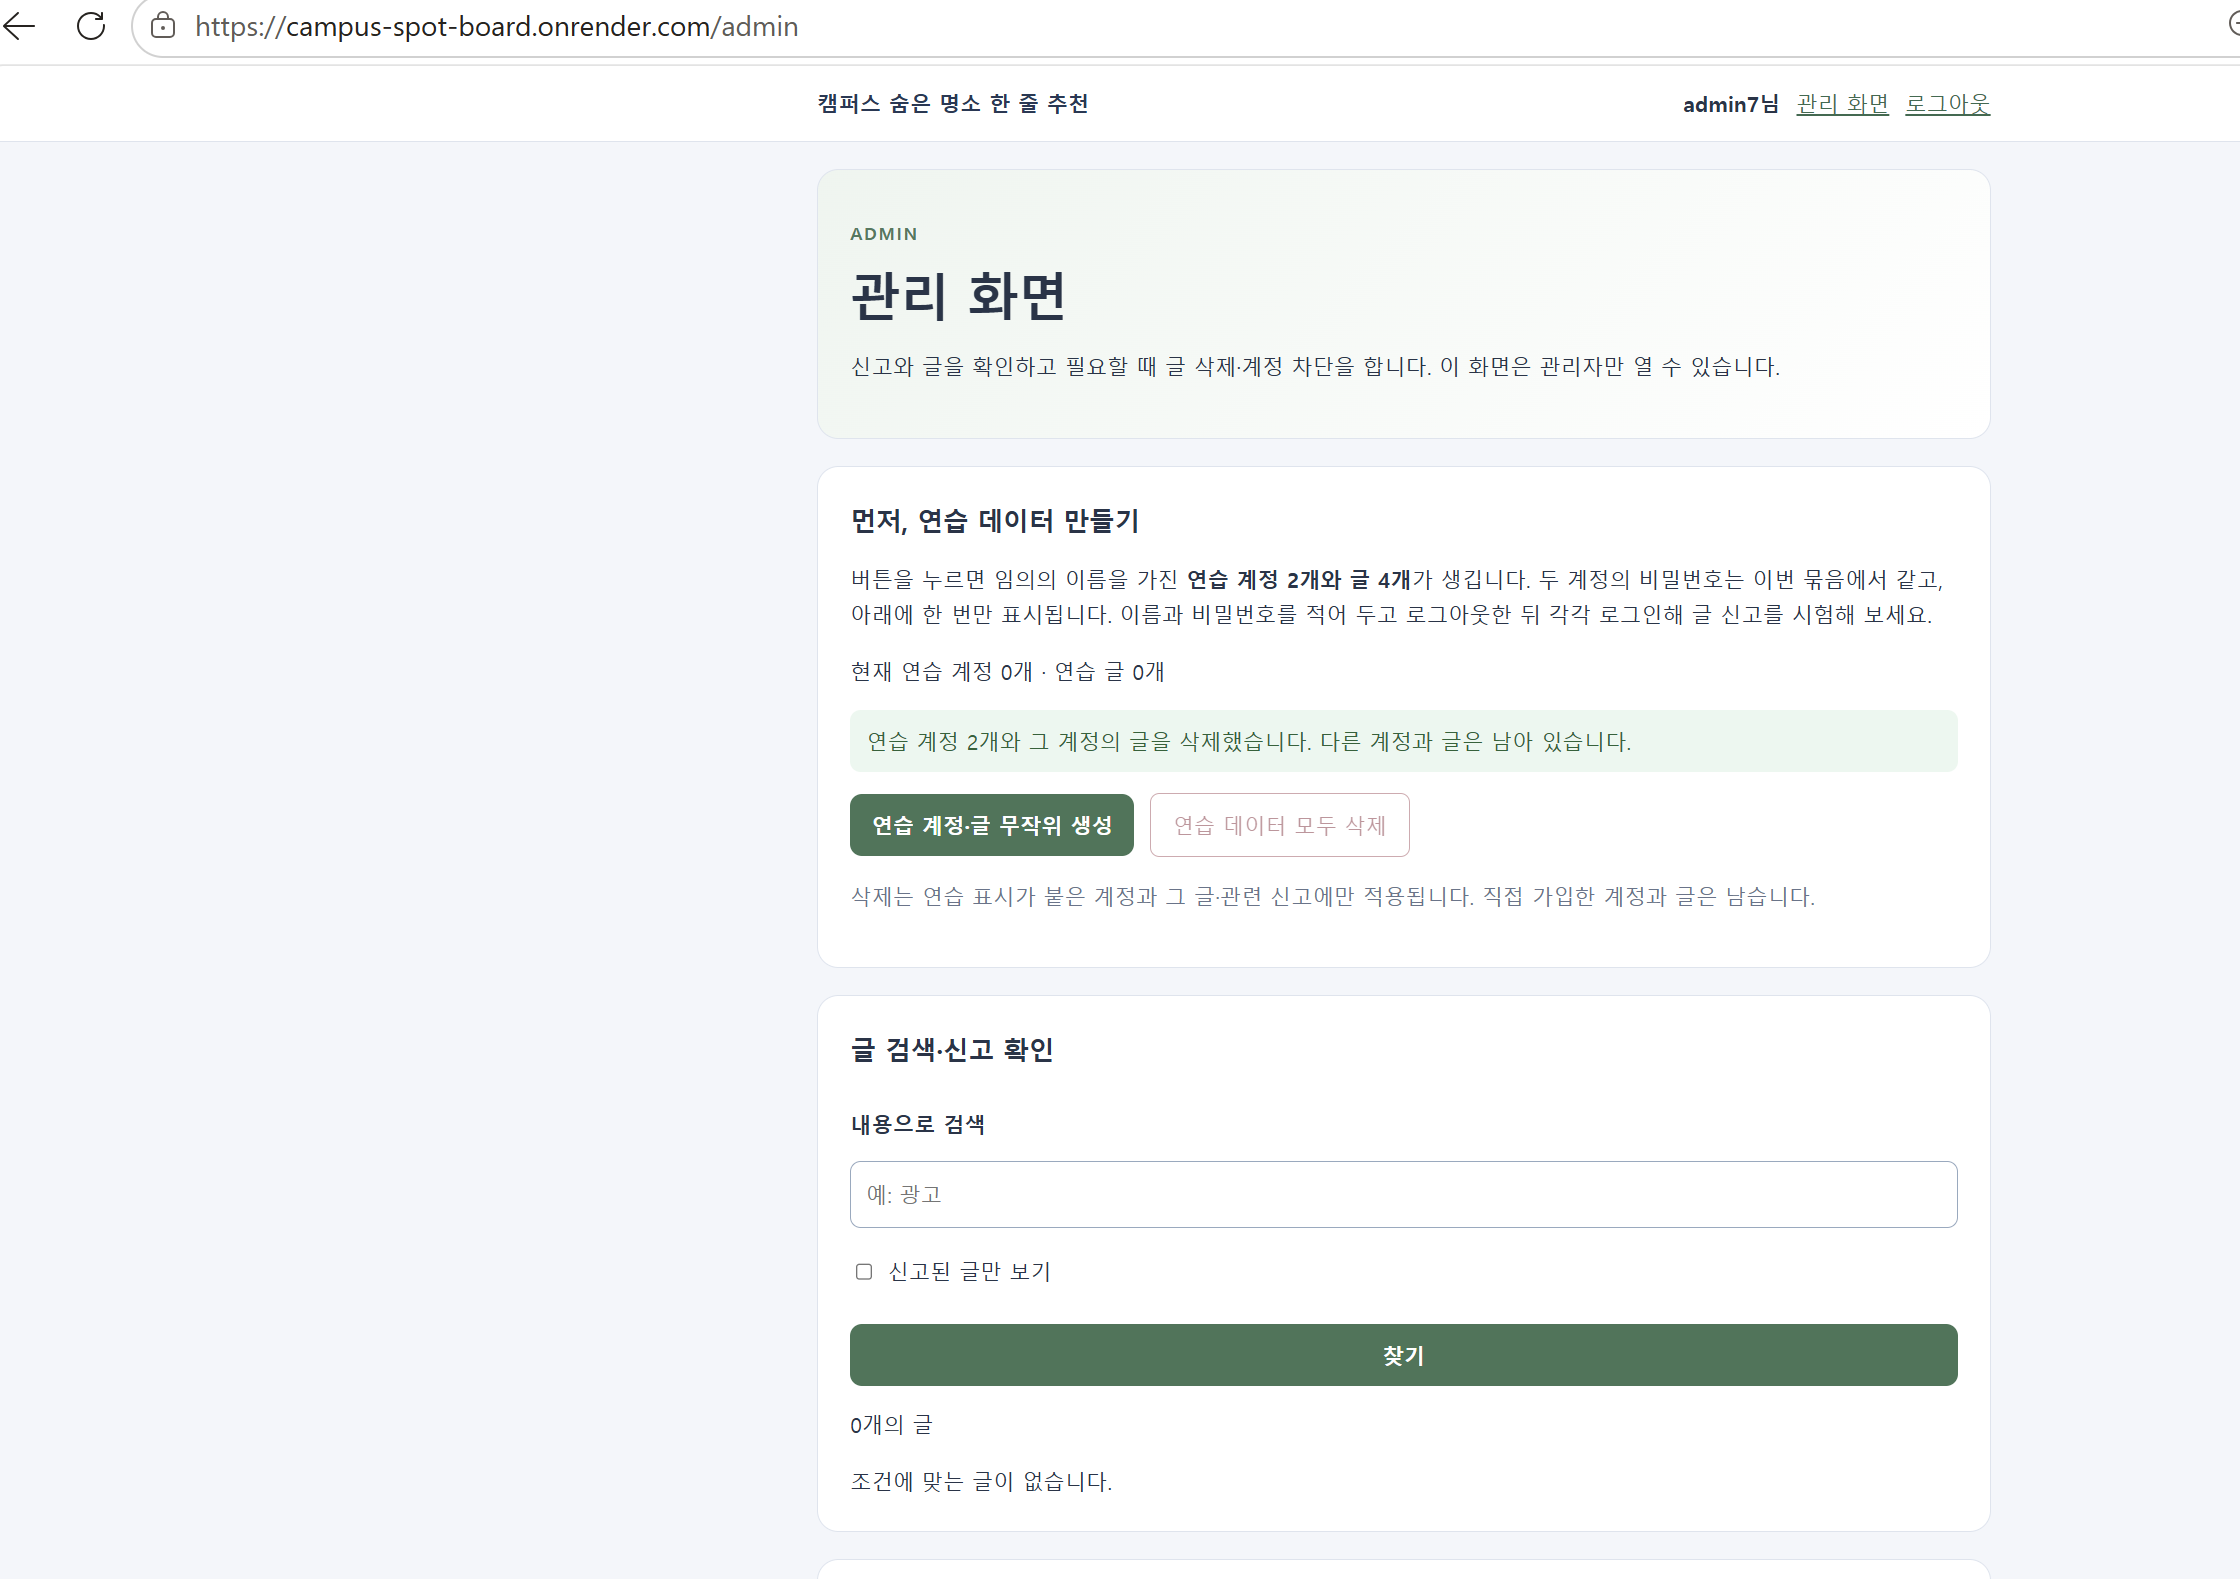
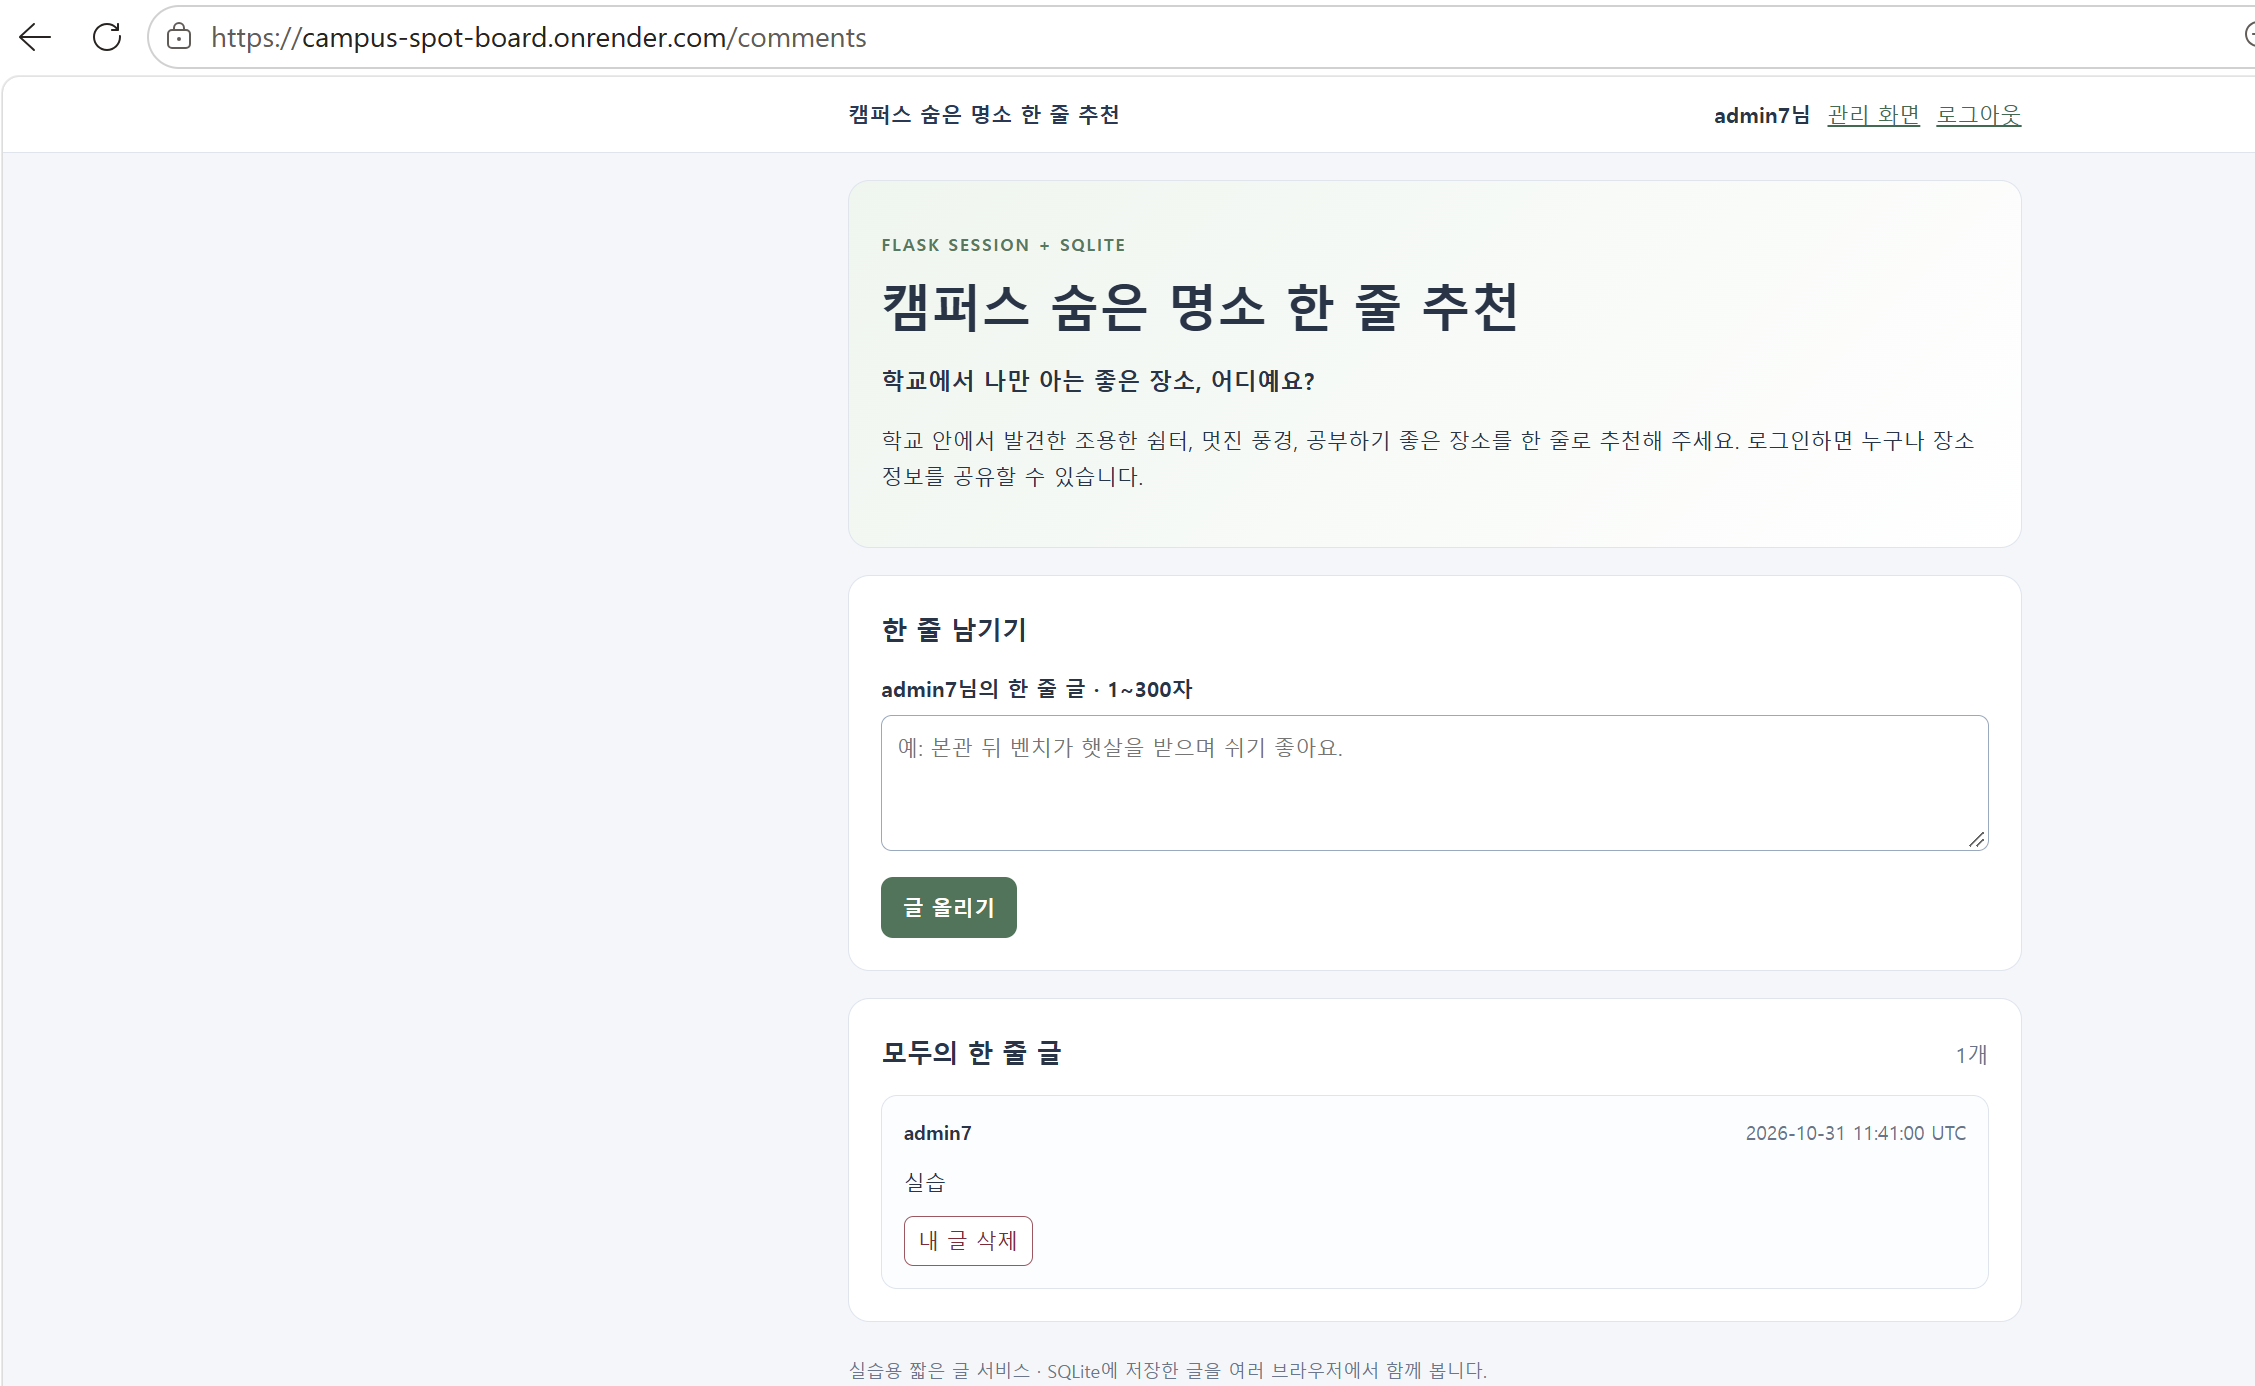
docs: fix week7 main screenshot and broken image link

diff --git a/README.md b/README.md
@@ -170,4 +170,4 @@ python -m flask --app app run --debug --port 5000
 
 ### AI 활용
 - 도움받은 작업: 주제 문구와 색 변경은 VS Code Copilot에 "라우트·인증·CSRF·DB·form의 name은 건드리지 말고 글자와 색만 바꿔줘"라고 요청함. Render 설정과 환경 변수는 Claude에게 질문함
-- 직접 확인한 부분: 변경 후 글 올리기가 정상 동작해서 form이 망가지지 않았음을 확인. `instance/app.db`와 SECRET_KEY가 커밋되지 않았는지 `git status`로 확인!
+- 직접 확인한 부분: 변경 후 글 올리기가 정상 동작해서 form이 망가지지 않았음을 확인. `instance/app.db`와 SECRET_KEY가 커밋되지 않았는지 `git status`로 확인
